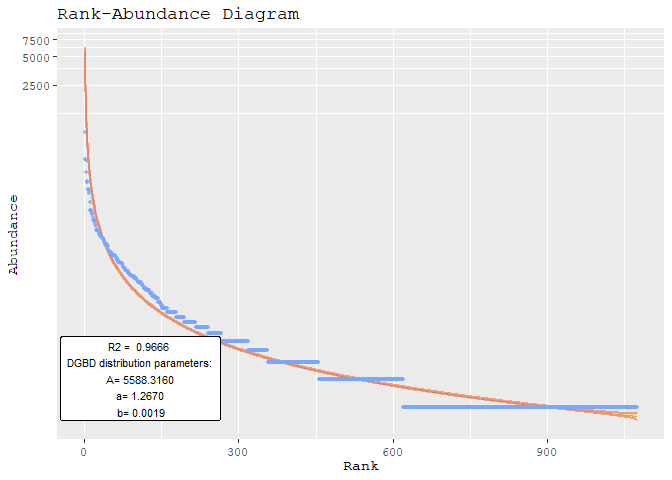
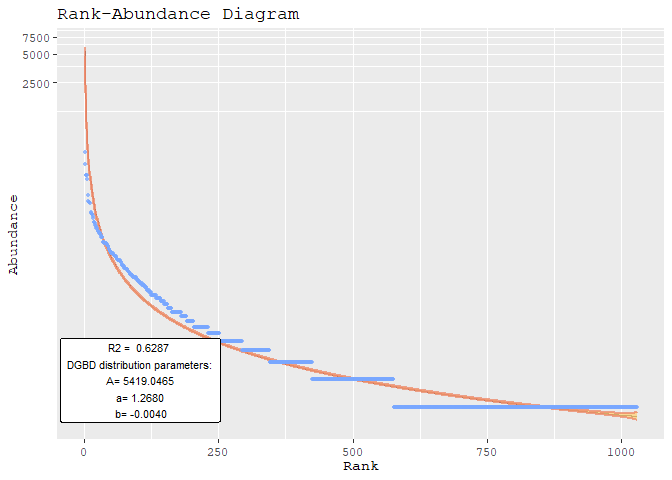
Fixed R2 values, added nls method

diff --git a/README.md b/README.md
@@ -42,38 +42,63 @@ Tara_Data
 #> otu_table()   OTU Table:         [ 1701 taxa and 3 samples ]
 #> sample_data() Sample Data:       [ 3 samples by 61 sample variables ]
 #> tax_table()   Taxonomy Table:    [ 1701 taxa by 7 taxonomic ranks ]
-Tara_DGBD <- BC_multiple(Tara_Data,is_phyloseq=TRUE,columns_select_multiple = c(1,3),plot_silent=T)
+Tara_DGBD <- BC_multiple(Tara_Data,is_phyloseq=TRUE,columns_select_multiple = c(1,2),plot_silent=T)
 #> [1] "The data fit the DGB distribution with parameters:"
 #>               A        a          b
 #> 2.5 %  497.6530 1.147561 -0.1920345
 #> 50 %   656.5237 1.114573 -0.1590458
 #> 97.5 % 866.1122 1.081584 -0.1260571
 #> [1] "And the fit has an R2 of:"
-#> [1] 0.9631398
+#> [1] 0.879234
 ```
 
 <img src="man/figures/README-example-1.png" width="100%" />
 
     #> [1] "The data fit the DGB distribution with parameters:"
     #>               A        a            b
-    #> 2.5 %  4555.386 1.285761 -0.016784526
-    #> 50 %   5588.316 1.267041  0.001935635
-    #> 97.5 % 6855.463 1.248321  0.020655796
+    #> 2.5 %  4327.562 1.288704 -0.024775637
+    #> 50 %   5419.046 1.267957 -0.004028272
+    #> 97.5 % 6785.821 1.247210  0.016719093
     #> [1] "And the fit has an R2 of:"
-    #> [1] 0.9666311
+    #> [1] 0.6286568
 
 <img src="man/figures/README-example-2.png" width="100%" />
 
 ``` r
+Tara_DGBD <- BC_multiple(Tara_Data,is_phyloseq=TRUE,columns_select_multiple = c(3),plot_silent=T)
+#> [1] "The data fit the DGB distribution with parameters:"
+#>               A        a            b
+#> 2.5 %  4555.386 1.285761 -0.016784526
+#> 50 %   5588.316 1.267041  0.001935635
+#> 97.5 % 6855.463 1.248321  0.020655796
+#> [1] "And the fit has an R2 of:"
+#> [1] 0.7930081
+```
 
-BC_report(hmp_wgs,2)
+<img src="man/figures/README-example-3.png" width="100%" />
+
+``` r
+Tara_DGBD <- BC_multiple(Tara_Data,is_phyloseq=TRUE,columns_select_multiple = c(3),plot_silent=T,nls=TRUE) #Generally the nls method is better at fitting the values on the left of the graph, while performing worse on the right side of the graph. Yet, the R2 tends to stay the same or increase when using the nls method.
+#> [1] "The data fit the DGB distribution with parameters:"
+#>               A         a         b
+#> 2.5 %  10.97475 0.7556983 0.3038271
+#> 50 %   45.39142 0.7620199 0.4121401
+#> 97.5 % 79.80809 0.7683415 0.5204532
+#> [1] "And the fit has an R2 of:"
+#> [1] 0.9867148
+```
+
+<img src="man/figures/README-example-4.png" width="100%" />
+
+``` r
+BC_report(hmp_wgs,2) 
 #> [1] "The data fit the DGB distribution with parameters:"
 #>                   A          a        b
 #> 2.5 %  4.591541e-11 -0.4345076 5.086016
 #> 50 %   2.018236e-10 -0.6208510 5.272359
 #> 97.5 % 8.871265e-10 -0.8071944 5.458703
 #> [1] "And the fit has an R2 of:"
-#> [1] 0.9614078
+#> [1] 0.8341139
 ```
 
-<img src="man/figures/README-example-3.png" width="100%" />
+<img src="man/figures/README-example-5.png" width="100%" />
